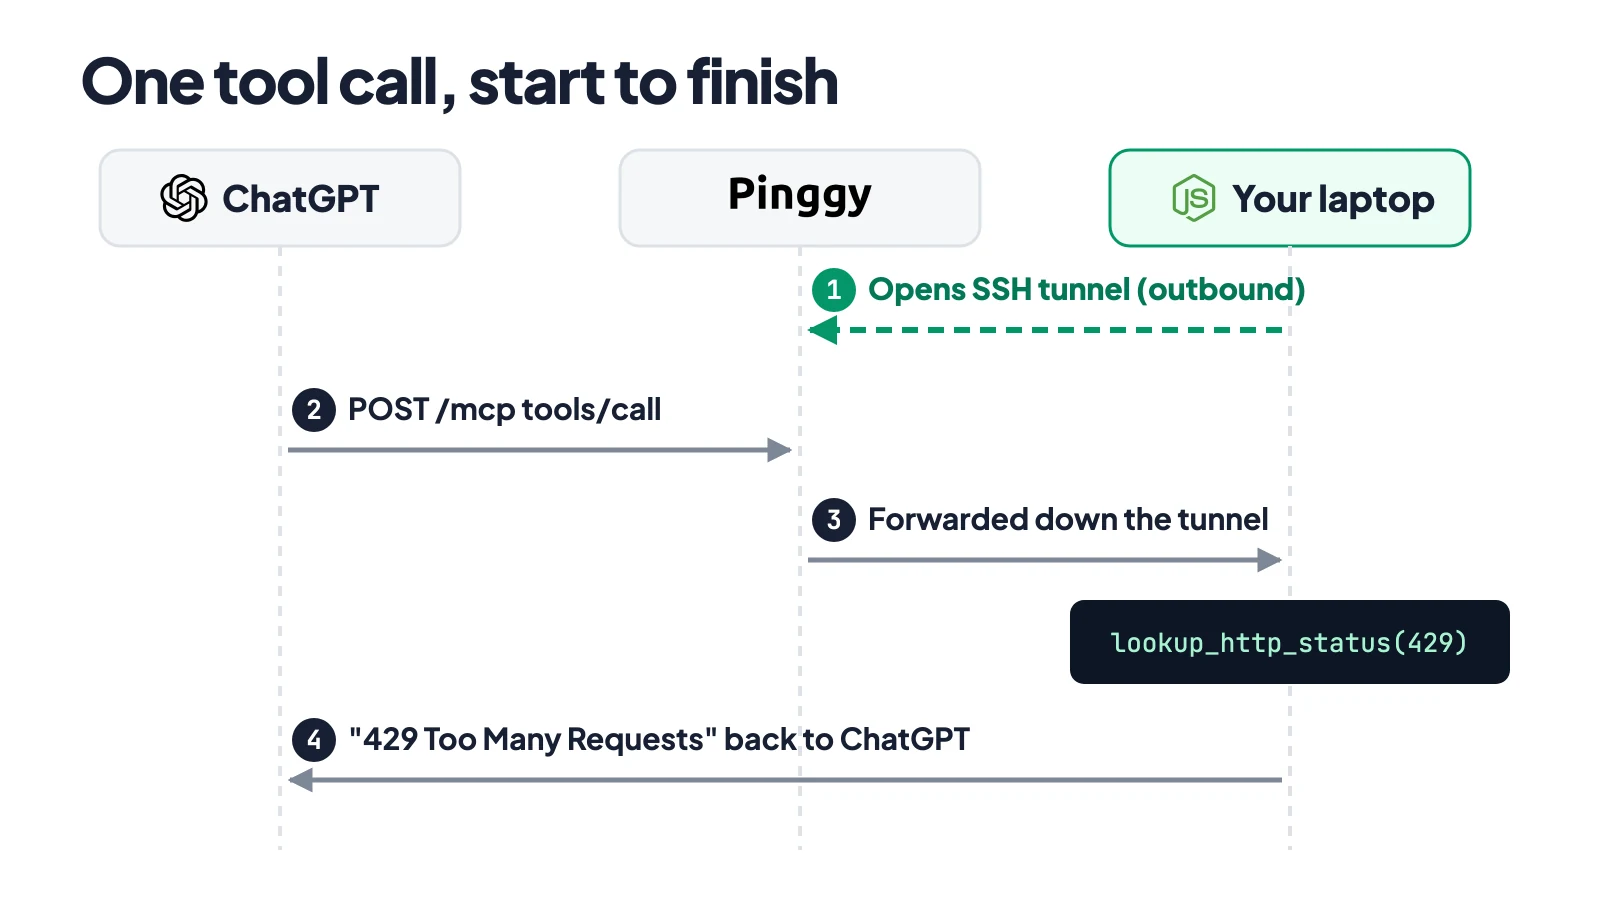
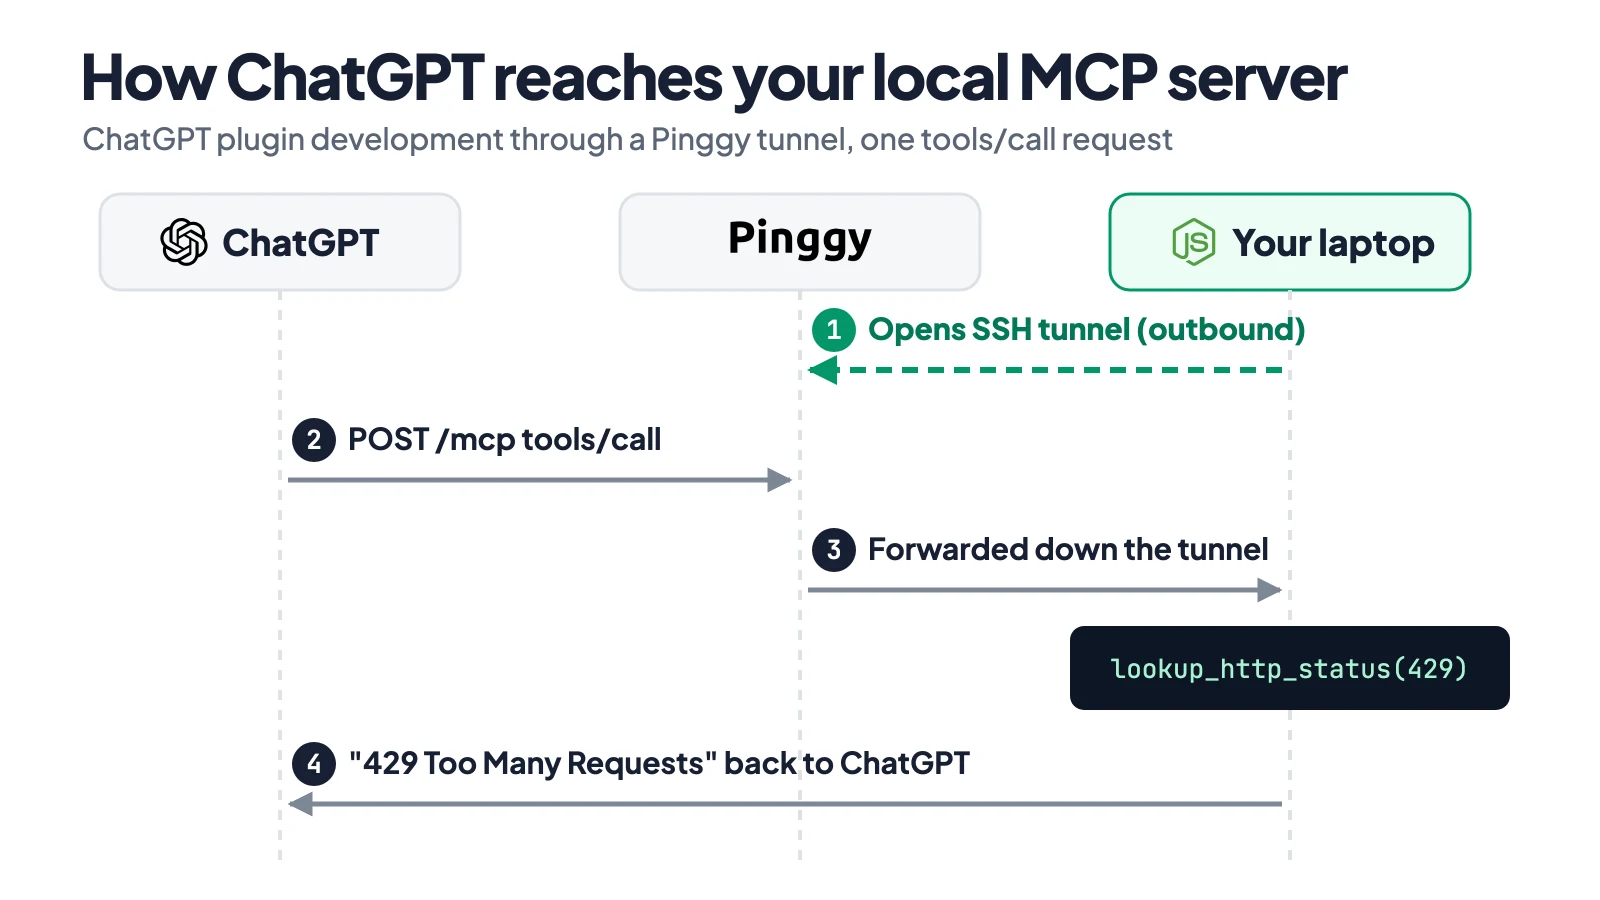
Enhance image title guidelines in CLAUDE.md and BLOG_IMAGE_GENERATOR.md, and update blog writing instructions for body images. Modify image descriptions in build_and_publish_chatgpt_plugin_mcp.md for clarity.

Changed region(s): [[0.0312, 0.0622, 0.9375, 0.4356], [0.1562, 0.4356, 0.9688, 0.8089], [0.1562, 0.7778, 0.8125, 0.9022]]

diff --git a/CLAUDE.md b/CLAUDE.md
@@ -113,6 +113,34 @@ Write like a seasoned developer talking shop, the kind of post that does well on
 - **Code blocks earn their place.** Show the command or the diff; don't paste 80 lines of boilerplate. Annotate with `# comment` only when the line isn't self-explanatory.
 - **Inline code for short plain-text snippets.** A single short line of unhighlighted plain text - a URL, an env var assignment, a filename, a value - should be inline code (single backticks), not a fenced code block. Fenced blocks (which render as the dark terminal card) are for multi-line commands/output or syntax-highlighted code. Avoid bare ` ``` ` / ` ```text ` fences for one-liners: `https://abc123.a.pinggy.link` reads better inline than as a one-line terminal card.
 
+### Image titles
+
+Every body image (diagram, chart, collage, annotated screenshot) carries a
+title that makes sense on its own. Images get shared, pinned, embedded and
+indexed in image search without the post around them, so someone who sees
+only the image must still know what it shows and which topic it belongs to.
+
+- **Name the subject and the topic.** Put the product, protocol or task in
+  the title: "How ChatGPT reaches your local MCP server", not "One tool call,
+  start to finish"; "How to publish a ChatGPT plugin in 6 steps", not "From
+  ZIP to the plugin directory". A title that only makes sense after reading
+  the section above it needs rewriting.
+- **Run the standalone test.** Cover the post, read only the image's title
+  and sub line, and ask whether a stranger would know what the picture is
+  about. If not, add the missing subject.
+- **One line, plus a sub line for context.** The title stays on one line at
+  the 60 to 66px title size (about 45 to 50 characters on a 1600px canvas).
+  Context that doesn't fit goes in a sub line of about 30px under it: the
+  setup, the scope or the data source, such as "ChatGPT plugin development
+  through a Pinggy tunnel, one tools/call request".
+- **The banner is the exception.** It already carries the post headline.
+- **Captions and alt text don't replace the title.** They still describe
+  the image, and the caption should add something the title doesn't (a
+  legend, a credit), not repeat it.
+- **Placeholders lead with the title.** In an image placeholder, the first
+  `Text` item is the proposed standalone title, and the second is its sub
+  line when one is needed.
+
 ### Tags
 
 Tags are a navigation taxonomy, not an SEO keyword field. Every distinct tag

diff --git a/aidocs/BLOG_IMAGE_GENERATOR.md b/aidocs/BLOG_IMAGE_GENERATOR.md
@@ -184,6 +184,12 @@ captions all count.
   as something a developer would say out loud.
 - Say what the picture shows, not what it is called: "One request from your
   phone to port 5173", not "Tunnel architecture".
+- Body image titles stand alone, as `CLAUDE.md` -> "Image titles" requires:
+  someone who sees only the image, shared or in image search, must know its
+  subject and topic. Name the product, protocol or task ("How ChatGPT
+  reaches your local MCP server"), and put the setup or source in the sub
+  line. If the placeholder's title fails this test, rewrite it and say so
+  in the report.
 - Use the real names: the real tool, the real port, the real URL shape
   (`https://abc123.a.pinggy.link`), the real command. Put commands, ports,
   URLs and file names in JetBrains Mono.
@@ -344,8 +350,10 @@ kind like this:
 - Adjacent boxes, in a row and between rows, must not share a fill. A grid of
   steps where a column has the same fill in both rows reads as columns, not
   steps.
-- Title top left, 60 to 66px, weight 800, letter-spacing `-.03em`. 1
-  optional sub line under it at about 30px in `#616b7a`.
+- Title top left, 60 to 66px, weight 800, letter-spacing `-.03em`, on one
+  line (about 45 to 50 characters). 1 optional sub line under it at about
+  30px in `#616b7a`. Together they must make the image understandable
+  without the post (see Words on the image).
 - A command shown inside a diagram sits in a small code panel in the code
   card colours, in JetBrains Mono, copied exactly from the post.
 - Flowcharts, sequence and state diagrams: draw the SVG by hand. Mermaid is

diff --git a/aidocs/BLOG_WRITING.md b/aidocs/BLOG_WRITING.md
@@ -264,6 +264,10 @@ Write one blockquote per image:
 - `Text` lists the exact words on the image. Keep it to about 10 pieces of
   text. More than that belongs in the prose. Every piece follows the blog
   voice: real names, real ports, real numbers, no marketing words.
+- For a body image, the first `Text` item is its title and must make sense
+  without the post, per `CLAUDE.md` -> "Image titles": name the product,
+  protocol or task, such as "How to publish a ChatGPT plugin in 6 steps".
+  Put the setup or source in a second item as the sub line.
 - `Sources` lists the pages to capture for a `screenshot` or `collage`,
   where a `sourced` image lives, and where each number in a chart comes
   from. Name the part of the page when it is not the top: "the pricing

diff --git a/content/blog/build_and_publish_chatgpt_plugin_mcp.md b/content/blog/build_and_publish_chatgpt_plugin_mcp.md
@@ -40,7 +40,7 @@ The worked example here is an MCP-server-only plugin called HTTP Status. It has 
 
 {{< image "build_and_publish_chatgpt_plugin_mcp/chatgpt_plugin_mcp_tunnel.webp" "Sequence diagram: the laptop opens an SSH tunnel to Pinggy, ChatGPT posts tools/call to /mcp, Pinggy forwards it down the tunnel, lookup_http_status(429) runs, and the result returns to ChatGPT" >}}
 
-*During development, ChatGPT calls your local MCP server through a tunnel.*
+*Numbers follow one request in order; the dashed green line is the SSH connection your laptop opens before ChatGPT sends anything.*
 
 ## Prerequisites
 
